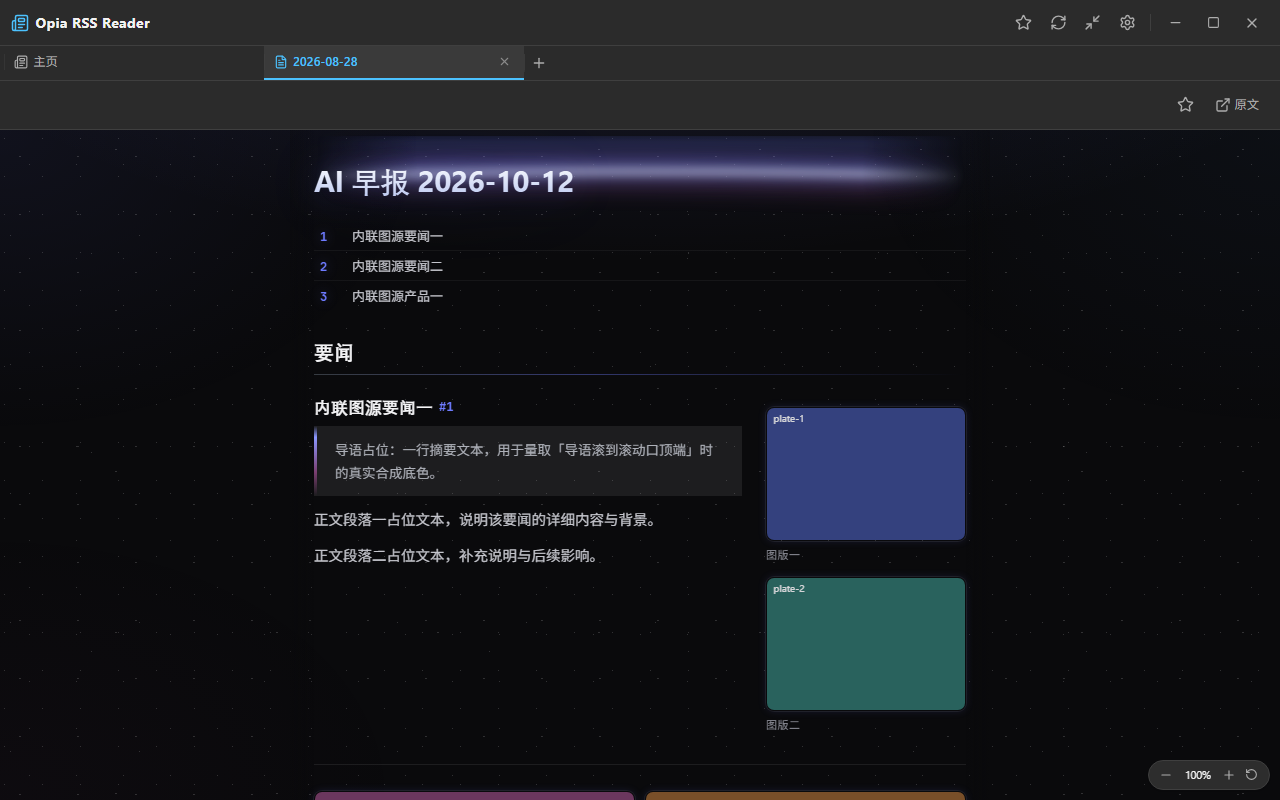
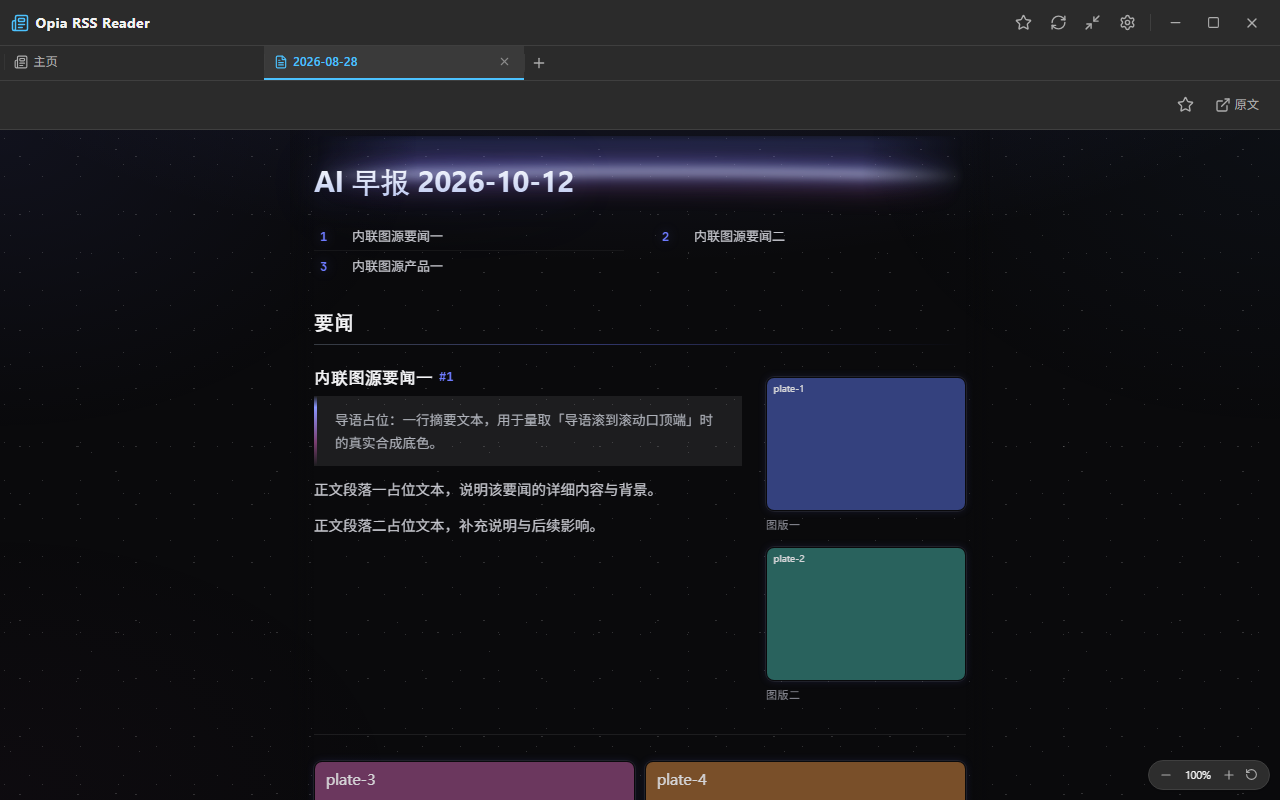
feat(juya): 概览目录全风格统一两列（用户指令 2026-10-25）——基类 grid 两列+≤640 单列回落；nocturne 发丝线适配行界条目（封版例外已记账）；newsprint 单列守卫翻转为两列不变量；归档基线随极光带版更新

diff --git a/tests/e2e/nocturne-geometry.spec.ts b/tests/e2e/nocturne-geometry.spec.ts
@@ -8,7 +8,9 @@ import { loadApp, openFirstArticle, activeTab } from './setup'
  *
  *  三处必须收在同一内容栏边界上：
  *    ① 栏目 h2 发丝线（基准）；
- *    ② 概览条目分隔线（`li + li::after`，绝对定位的伪元素）；
+ *    ② 概览条目分隔线（绝对定位伪元素。2026-10-25 概览统一两列后：>640 视口挂行首条目
+ *       `li:nth-child(2n+3)::after`、线覆本格半幅；≤640 单列回落 `li:nth-child(n+2)::after`
+ *       逐条上线、线覆满幅——两套语义按视口分支断言）；
  *    ③ 阅读页图片：宽屏右列图版 + 窄窗单列图 + 通栏回流带。
  *
  *  断言一律用**相对值**（两个元素边缘的差值），不锁绝对坐标 —— 绝对坐标随视口、滚动条宽度、
@@ -22,7 +24,7 @@ import { loadApp, openFirstArticle, activeTab } from './setup'
 
 const VIEWPORTS = [560, 800, 1320] as const
 
-type Box = { left: number; right: number; width: number }
+type Box = { left: number; right: number; width: number; top: number }
 
 for (const width of VIEWPORTS) {
   test(`nocturne 右边缘三处对齐内容栏边界（${width} 视口）`, async ({ page }) => {
@@ -33,19 +35,22 @@ for (const width of VIEWPORTS) {
     const root = activeTab(page).locator('.juya-root')
     await expect(root).toBeVisible()
 
-    const geo = await root.evaluate((el) => {
+    const geo = await root.evaluate((el, vw) => {
       const box = (n: Element | null): Box | null => {
         if (!n) return null
         const r = n.getBoundingClientRect()
-        return { left: r.left, right: r.right, width: r.width }
+        return { left: r.left, right: r.right, width: r.width, top: r.top }
       }
       const h2 = el.querySelector('.juya-section > h2')
       const plateImg = el.querySelector('.juya-entry-figure img')
       const overflowImgs = [...el.querySelectorAll('.jynoct-overflow-media img')]
       const lis = [...el.querySelectorAll('.juya-overview li')]
-      const sepLi = lis[1] ?? null
+      // 两列统一后分隔线挂在「第 2 行起的行首条目」（DOM 3、5、7…）；单列回落后是 lis[1]
+      const sepLi = (vw > 640 ? lis[2] : lis[1]) ?? null
       const sep = sepLi ? getComputedStyle(sepLi, '::after') : null
       const liBox = box(sepLi)
+      const ul = el.querySelector('.juya-overview')
+      const ulBox = box(ul)
       // 分隔线左右内缩的**使用值**（定位元素的 CSSOM resolved value 为 px）
       const insetLeft = sep ? Number.parseFloat(sep.left) : Number.NaN
       const insetRight = sep ? Number.parseFloat(sep.right) : Number.NaN
@@ -57,13 +62,17 @@ for (const width of VIEWPORTS) {
         overflowLast: box(overflowImgs.at(-1) ?? null),
         overflowCount: overflowImgs.length,
         sepLi: liBox,
+        ul: ulBox,
+        li0: box(lis[0] ?? null),
+        li1: box(lis[1] ?? null),
+        li2: box(lis[2] ?? null),
         sepInsetLeft: insetLeft,
         sepInsetRight: insetRight,
         // 分隔线的真实边缘 = li padding-box 边缘 ∓ 内缩量
         sepLeft: liBox && Number.isFinite(insetLeft) ? liBox.left + insetLeft : Number.NaN,
         sepRight: liBox && Number.isFinite(insetRight) ? liBox.right - insetRight : Number.NaN
       }
-    })
+    }, width)
 
     // 基准本身必须存在：栏目线是 1px 实线，否则「对齐基准」无从谈起
     expect(geo.h2, '栏目 h2 应可取到').toBeTruthy()
@@ -81,9 +90,19 @@ for (const width of VIEWPORTS) {
         `偏差(plate/sep 右)=${(geo.plate!.right - geo.h2!.right).toFixed(2)}/${(geo.sepRight - geo.h2!.right).toFixed(2)}`
     )
 
-    // ① 概览分隔线 == 栏目线（左右缘同式）
-    expect(Math.abs(geo.sepLeft - geo.h2!.left), `概览分隔线左缘应贴内容栏左边界`).toBeLessThanOrEqual(1)
-    expect(Math.abs(geo.sepRight - geo.h2!.right), `概览分隔线右缘应贴内容栏右边界`).toBeLessThanOrEqual(1)
+    // ① 概览分隔线（两列统一后按视口分支：≤640 单列满幅贴内容栏两缘；>640 两列覆行首格）
+    if (width <= 640) {
+      expect(Math.abs(geo.sepLeft - geo.h2!.left), `概览分隔线左缘应贴内容栏左边界`).toBeLessThanOrEqual(1)
+      expect(Math.abs(geo.sepRight - geo.h2!.right), `概览分隔线右缘应贴内容栏右边界`).toBeLessThanOrEqual(1)
+    } else {
+      // 两列在场：首两项同行、第三项起第二行
+      expect(Math.abs(geo.li1!.top - geo.li0!.top), '概览两列：前两项应同行').toBeLessThanOrEqual(1)
+      expect(geo.li2!.top, '概览两列：第三项应在第二行').toBeGreaterThan(geo.li1!.top)
+      // 行首格左缘即内容栏左缘；线右缘应覆到本格轨道右缘（列间距 32 之外是右格）
+      const track = (geo.ul!.width - 32) / 2
+      expect(Math.abs(geo.sepLeft - geo.ul!.left), '分隔线左缘应贴内容栏左边界').toBeLessThanOrEqual(1)
+      expect(Math.abs(geo.sepRight - (geo.ul!.left + track)), '分隔线右缘应覆满本格轨道').toBeLessThanOrEqual(1)
+    }
 
     // ② 图片（右列图版）右缘 == 栏目线右缘。宽屏右列是 200px 图列（左缘是正文/图列分界，
     // 不是内容栏边界），故左缘只在 ≤640px 单列回落、图铺满内容列时才成立 —— 条件断言，不硬套。
@@ -100,12 +119,20 @@ for (const width of VIEWPORTS) {
     expect(Math.abs(geo.overflowFirst!.left - geo.h2!.left), '回流带左缘应贴内容栏左边界').toBeLessThanOrEqual(1)
     expect(Math.abs(geo.overflowLast!.right - geo.h2!.right), '回流带右缘应贴内容栏右边界').toBeLessThanOrEqual(1)
 
-    // ④ 悬停底色仍允许外溢：li 自身（hover 背景盒）必须比内容栏宽 —— 这是交互反馈，不是漂移。
-    // 「底色比线宽」的形态由此结构保证：li 盒 = 内容栏 ± 同一记号，而分隔线已内缩回内容栏。
+    // ④ 悬停底色仍允许外溢：li 自身（hover 背景盒）必须比其所在列轨道宽 —— 这是交互反馈，
+    // 不是漂移。「底色比线宽」的形态由此结构保证：li 盒 = 轨道 ± 同一记号，而分隔线已内缩回轨道。
     expect(geo.sepLi, '概览条目 li 应可取到').toBeTruthy()
-    expect(
-      geo.sepLi!.width - geo.h2!.width,
-      'hover 背景盒应比内容栏宽（底色外溢、分隔线内缩）'
-    ).toBeGreaterThan(4)
+    if (width <= 640) {
+      expect(
+        geo.sepLi!.width - geo.h2!.width,
+        'hover 背景盒应比内容栏宽（底色外溢、分隔线内缩）'
+      ).toBeGreaterThan(4)
+    } else {
+      const track = (geo.ul!.width - 32) / 2
+      expect(
+        geo.sepLi!.width - track,
+        'hover 背景盒应比本格轨道宽（底色外溢、分隔线内缩）'
+      ).toBeGreaterThan(4)
+    }
   })
 }

diff --git a/src/renderer/juya/juya.css b/src/renderer/juya/juya.css
@@ -50,9 +50,20 @@
   margin: 0 0 28px;
   padding: 0;
   list-style: none;
-  display: flex;
-  flex-direction: column;
-  gap: 6px;
+  /* 2026-10-25 用户统一指令：概览目录全风格一行两个（此前基类单列，仅 wabi/folio/editorial
+     两列）。基类改 grid 两列，走基类的风格（y2k/pop/newsprint90s/synthwave/nocturne）随之统一；
+     wabi/editorial 各自的 grid 两列覆盖与 folio 的 column-count 两列保持不动（视觉已达标，封版不动）。
+     窄窗 ≤640px 回落单列（与 editorial 的既有断点一致）。 */
+  display: grid;
+  grid-template-columns: repeat(2, minmax(0, 1fr));
+  column-gap: 32px;
+  row-gap: 6px;
+}
+
+@media (max-width: 640px) {
+  .juya-overview {
+    grid-template-columns: minmax(0, 1fr);
+  }
 }
 
 .juya-overview li {
@@ -61,6 +72,7 @@
   gap: 8px;
   font-size: 13px;
   line-height: 1.5;
+  min-width: 0; /* grid 项防溢出：长标题折行交由内容层 overflow-wrap 处理 */
 }
 
 .juya-overview a {
@@ -1796,7 +1808,8 @@
   letter-spacing: 4px;
 }
 
-/* 框内列表去掉基类的底部外边距（否则下框线前会多出 28px 空白）；仍是单列。 */
+/* 框内列表去掉基类的底部外边距（否则下框线前会多出 28px 空白）；列数随基类（2026-10-25
+   起两列，窄窗单列）。 */
 .jynews-overview .juya-overview {
   margin-bottom: 0;
 }
@@ -3851,18 +3864,20 @@
   /* 行高约 23px，半径比条目 hover 的 8px 更收，避免小行读成胶囊 */
 }
 
-/* ② 条目间极淡发丝线：基层 .juya-overview 是 flex column + gap: 6px（不是普通列表流），
-   所以**不用** border-bottom —— 那样线会顶在 gap 边缘，读成「上下各半格」的双倍间距错觉。
-   改用零占位的绝对定位伪元素，落在现有 6px 间隙正中（top = -(6px/2) - 1px/2 = -3.5px），
-   不参与 flex 布局、不改任何间距。边缘用 `li + li` 相邻兄弟：首条无上线，且没有「末条下线」
-   这条规则，首尾天然干净；相对顺序而非序号判断，flex 重排下也不会漏（不用 :first/:last-child）。
+/* ② 条目间极淡发丝线：落在现有 6px 行距正中（top = -(6px/2) - 1px/2 = -3.5px），
+   零占位绝对定位、不参与布局、不改任何间距。边缘取同一个 `--jy-ov-bleed` ⇒ 线与栏目 h2
+   横线（正文文字右缘）同一条内容栏边界。
+   **2026-10-25 两列统一适配（封版风格的唯一授权改动，见 ledger）**：基类概览改 grid 两列后，
+   「行界」从「每对相邻条目」变为「第 2 行起的行首条目」（DOM 行主序：3、5、7…），
+   选择器随之改 `li:nth-child(2n + 3)`；线只覆行首条目所在半幅（0.05 极淡装饰线，
+   不承载信息）。≤640px 基类回落单列，恢复原「除首条外逐条」语义。
    线色 rgba(255,255,255,0.05)：取色来源 = 本变体 --jy-border rgba(255,255,255,0.08) 的**更弱一档**
    —— 需求要「极淡」，且 #6 已把栏目线单独提到 0.22 做非文本 UI 的 3:1，概览条目线刻意更低，
    两张票的线值不互相打架。合成到 #18192a 上为 #242535，WCAG 对比度 1.15:1：装饰性分隔线、
    不承载信息、不适用 3:1 门槛（同 dust 的处理口径）。
    **左右内缩（#16）**：线贴的是 li 的 padding box，若 left/right 取 0 会随负外边距外凸 8px；
-   改取同一个 `--jy-ov-bleed` ⇒ 线与栏目 h2 横线（正文文字右缘）同一条内容栏边界。 */
-[data-juya-variant='nocturne-dark'].jynoct .juya-overview li + li::after {
+   改取同一个 `--jy-ov-bleed` ⇒ 线不越过本条目盒缘。 */
+[data-juya-variant='nocturne-dark'].jynoct .juya-overview li:nth-child(2n + 3)::after {
   content: '';
   position: absolute;
   left: var(--jy-ov-bleed);
@@ -3870,6 +3885,21 @@
   top: -3.5px;
   height: 1px;
   background: rgba(255, 255, 255, 0.05);
+}
+
+/* 单列（≤640，与基类回落断点一致）：除首条外逐条上线，与两列化之前的行为相同。 */
+@media (max-width: 640px) {
+  /* 取色来源 = --jy-border rgba(255,255,255,0.08) 更弱一档；合成底 #18192a 上的对比度 1.15:1，
+     线值与宽屏规则同一套（见块外上方注释） */
+  [data-juya-variant='nocturne-dark'].jynoct .juya-overview li:nth-child(n + 2)::after {
+    content: '';
+    position: absolute;
+    left: var(--jy-ov-bleed);
+    right: var(--jy-ov-bleed);
+    top: -3.5px;
+    height: 1px;
+    background: rgba(255, 255, 255, 0.05);
+  }
 }
 
 /* ③ hover 整行微亮：底层 `.juya-overview a:hover`（(0,2,1)）已给下划线，本票只补整行底色，
